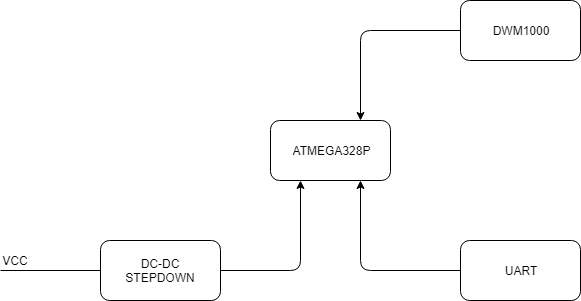
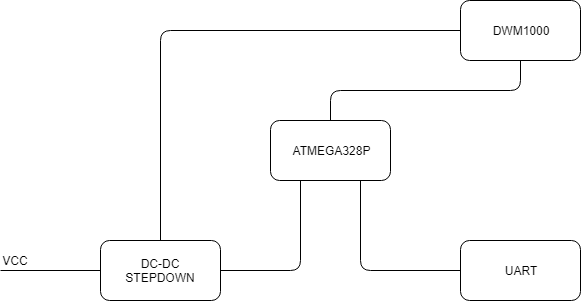
Add Anchor in Analyse.md
Update Tag scheme
Add Anchor scheme
Add components

diff --git a/doc/analyse.md b/doc/analyse.md
@@ -62,6 +62,26 @@ De DC-DC-stepdown-module wordt gebruikt om de ingangsspanning en de uitgangsstab
 - UART module
 Deze module is om via Micro USB naar UART te gaan. 
 
+#### Anchor
+
+![Github Logo](https://github.com/AP-Elektronica-ICT/jp19-luwb/blob/master/doc/img/HardwareAnchor.png "Anchor Blokschema")
+
+- ETHERNET IC (ENC28J60)
+
+
+- Crystal ENCJ2860 (25MHz)
+
+- Crystal ATMEGA1 (8MHz)
+
+- Stepdown
+Zie Tag
+
+- ATmega328P
+Zie Tag
+
+- DWM1000
+Zie Tag
+
 ### Specificatie tabel
 
 ### Argumentatie en alternatieven tabel
